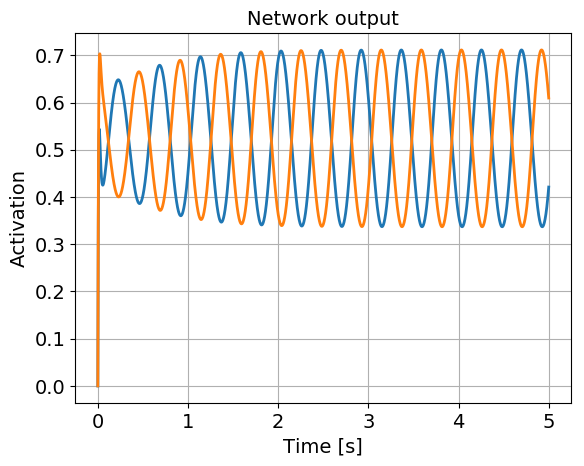
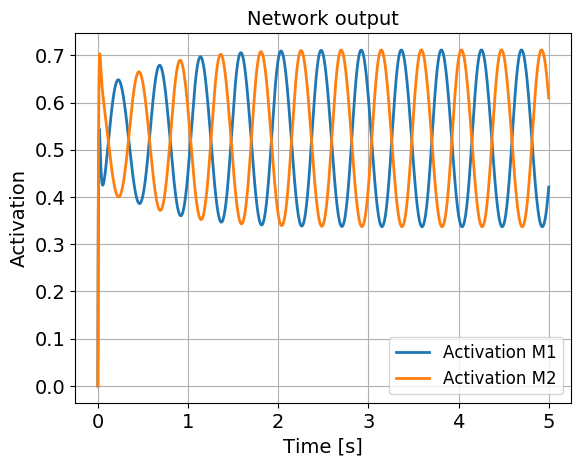
Did exercise 3b

Changed region(s): [[0.6781, 0.721, 0.9555, 0.8412]]

diff --git a/Lab6/Python/exercise3.py b/Lab6/Python/exercise3.py
@@ -80,8 +80,9 @@ def exercise3():
     ##### Neural Network #####
     # The network consists of four neurons
     N_params = NetworkParameters()  # Instantiate default network parameters
-    N_params.D = 2.  # To change a network parameter
     # Similarly to change w -> N_params.w = (4x4) array
+    
+    #----------------# Exercise 3a #----------------#
     N_params.D = 1.
     N_params.tau = np.array([0.02,0.02,0.1,0.1])
     N_params.b = np.array([3.0,3.0,-3.0,-3.0])
@@ -121,14 +122,19 @@ def exercise3():
     sim = SystemSimulation(sys)  # Instantiate Simulation object
 
     # Add external inputs to neural network
-    #ext_in = np.ones((len(time), 4))
-  
+
+    #ext_in = np.zeros((len(time), 4))
+    #ext_in[len(ext_in)/4:,:] = 0.25
+    #ext_in[2500:,:] = 1
+    #ext_in[len(ext_in)/4*3:,:] = 0.75
+        
     #sim.add_external_inputs_to_network(np.ones((len(time), 4)))
     #sim.add_external_inputs_to_network(ext_in)
 
     sim.initalize_system(x0, time)  # Initialize the system state
 
     sim.sys.pendulum_sys.parameters.PERTURBATION = True
+    
     # Integrate the system for the above initialized state and time
     sim.simulate()
 
@@ -162,7 +168,68 @@ def exercise3():
     plt.xlabel('Time [s]')
     plt.ylabel('Activation')
     plt.grid()
+    plt.legend()
+    
+    #----------------# Exercise 3a finished #----------------#
+    
+    #----------------# Exercise 3b #----------------#
+    
+        ##### System Simulation #####
+    # For more details on System Simulation check SystemSimulation.py
+    # SystemSimulation is used to initialize the system and integrate
+    # over time
 
+    sim = SystemSimulation(sys)  # Instantiate Simulation object
+
+    # Add external inputs to neural network
+
+    ext_in = np.zeros((len(time), 4))
+    #ext_in[len(ext_in)/4:,:] = 0.25
+    ext_in[2500:,:] = 1
+    #ext_in[len(ext_in)/4*3:,:] = 0.75
+        
+    #sim.add_external_inputs_to_network(np.ones((len(time), 4)))
+    sim.add_external_inputs_to_network(ext_in)
+
+    sim.initalize_system(x0, time)  # Initialize the system state
+
+    sim.sys.pendulum_sys.parameters.PERTURBATION = False
+    
+    # Integrate the system for the above initialized state and time
+    sim.simulate()
+
+    # Obtain the states of the system after integration
+    # res is np.array [time, states]
+    # states vector is in the same order as x0
+    res = sim.results()
+
+    # Obtain the states of the system after integration
+    # res is np.array [time, states]
+    # states vector is in the same order as x0
+    res = sim.results()
+
+    # In order to obtain internal states of the muscle
+    # you can access the results attribute in the muscle class
+    muscle1_results = sim.sys.muscle_sys.Muscle1.results
+    muscle2_results = sim.sys.muscle_sys.Muscle2.results
+
+    # Plotting the results
+    plt.figure('3b_Pendulum_Phase')
+    plt.title('Pendulum Phase')
+    plt.plot(res[:, 1], res[:, 2])
+    plt.xlabel('Position [rad]')
+    plt.ylabel('Velocity [rad.s]')
+    plt.grid()
+    
+    plt.figure('3b_Output_Neuron')
+    plt.title('Network output')
+    plt.plot(res[:, 0], res[:, 3], label='Activation M1')
+    plt.plot(res[:, 0], res[:, 5], label='Activation M2')
+    plt.xlabel('Time [s]')
+    plt.ylabel('Activation')
+    plt.grid()
+    plt.legend()
+    
     if DEFAULT["save_figures"] is False:
         plt.show()
     else:
